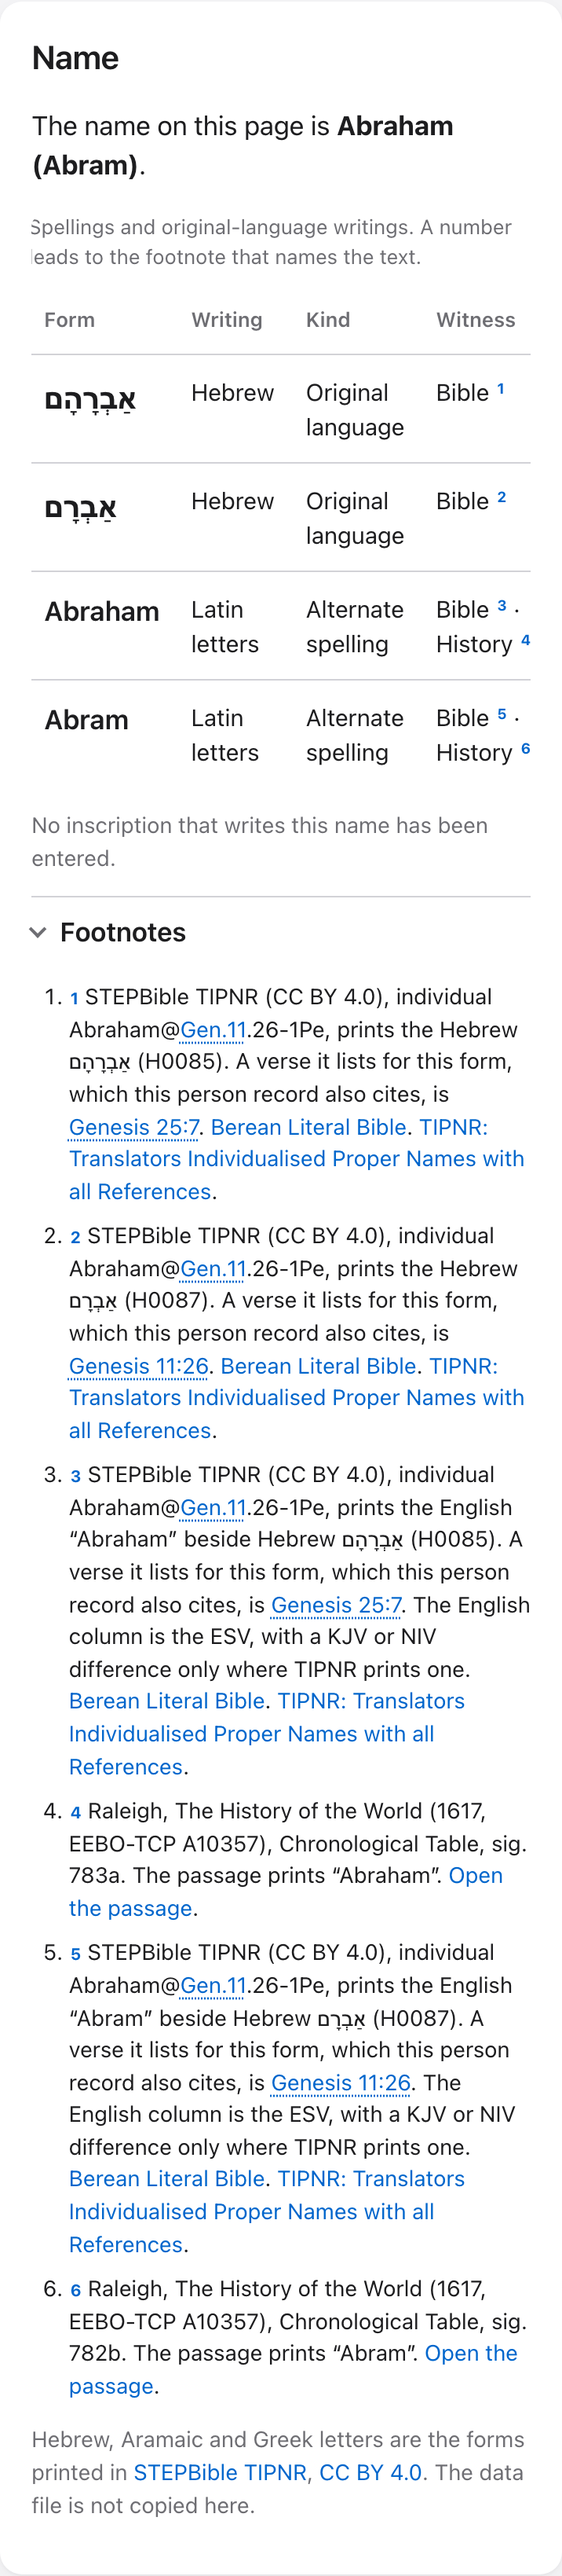
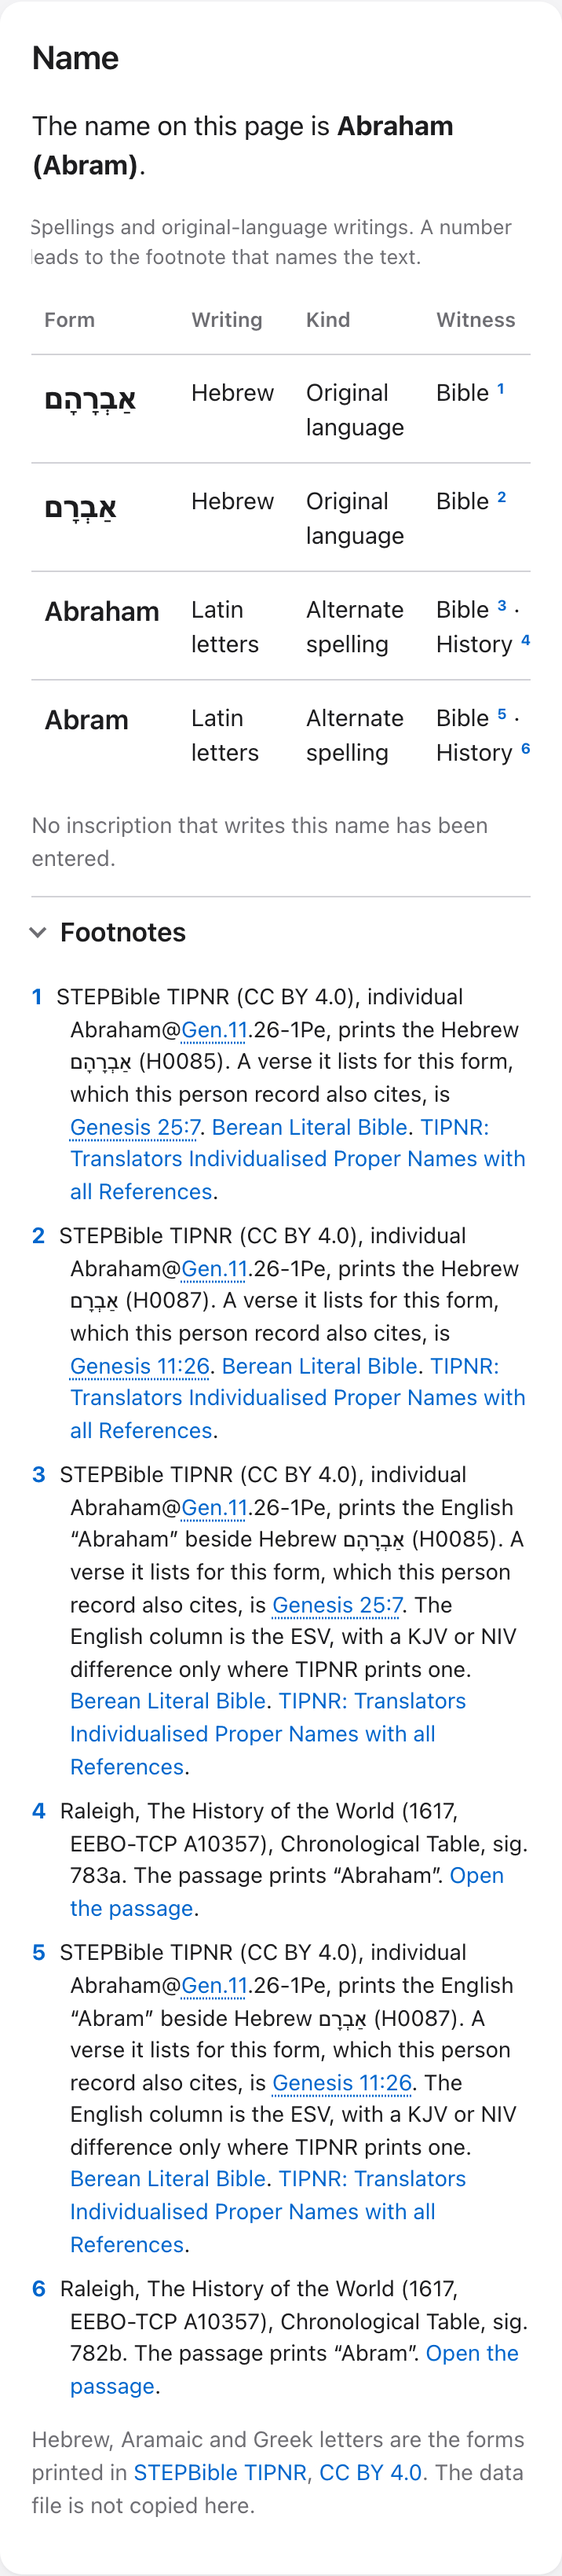
Print each footnote number once and shield TIPNR ids from email obfuscation.
Name footnotes showed the ordered-list marker and the back-link number. The back-link is now the only number, and the marker anchors are unchanged. TIPNR ids such as Abraham@Gen.11.26-1Pe are wrapped in Cloudflare's email_off comments so Scrape Shield does not rewrite them.

diff --git a/site/src/styles.css b/site/src/styles.css
@@ -109,8 +109,10 @@ table.chron.names tbody th { width: auto; }
 a.fn { font-size: 0.75em; font-weight: 700; text-decoration: none; margin-left: 1px; }
 .name-witness { white-space: nowrap; }
 .name-witness-sep { white-space: pre-wrap; }
-ol.name-notes { margin: 8px 0 0; padding-left: 1.4em; }
-ol.name-notes li { margin: 8px 0; font-size: 14px; scroll-margin-top: 160px; }
+/* The back-link is the only number. The browser marker would print it again. */
+ol.name-notes { list-style: none; margin: 8px 0 0; padding: 0; }
+ol.name-notes > li { margin: 8px 0; padding-left: 1.75em; text-indent: -1.75em; font-size: 14px; scroll-margin-top: 160px; }
+ol.name-notes > li > a.fn { font-size: 1em; font-weight: 700; margin-left: 0; margin-right: 0.35em; }
 ul.date-quotes { list-style: none; margin: 0; padding: 0; }
 ul.date-quotes > li { margin: 8px 0; padding-left: 12px; border-left: 2px solid var(--sep); }
 ul.date-quotes > li:first-child { margin-top: 0; }
